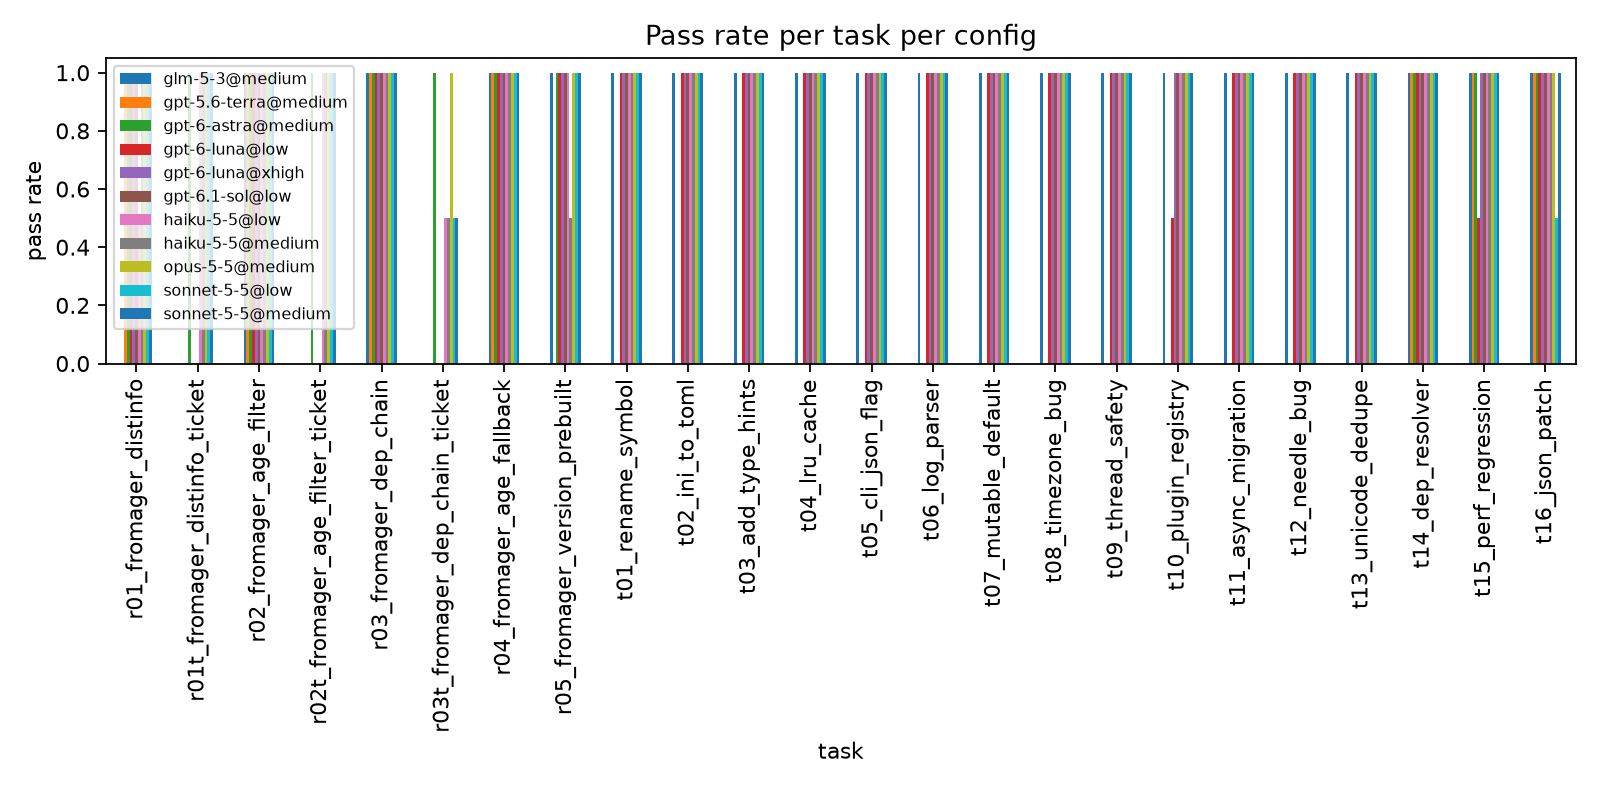
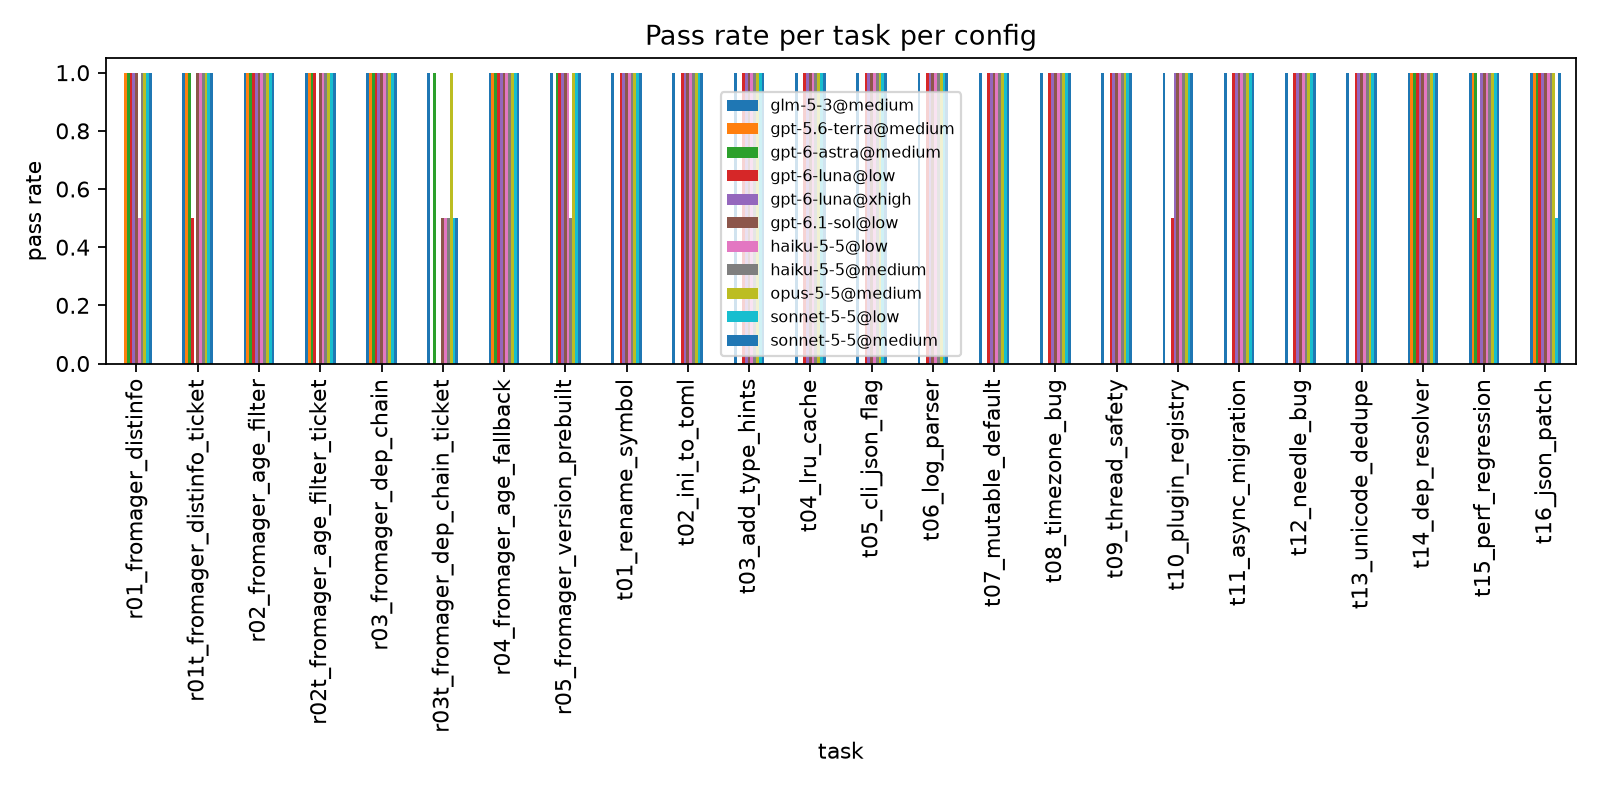
Results: Opus-judged Codex and GLM runs imported

Changed region(s): [[0.0625, 0.0625, 0.2188, 0.4688], [0.4375, 0.0938, 0.5938, 0.4688], [0.25, 0.2812, 0.2812, 0.4375]]

diff --git a/results/harness/report/summary.md b/results/harness/report/summary.md
@@ -82,13 +82,13 @@
 
 | config | pass rate | mean cost | mean wall s | n |
 |---|---|---|---|---|
-| glm-5-3@medium | 50% | $0.000 | 484 | 8 |
-| gpt-6-luna@low | 62% | $0.010 | 128 | 16 |
+| glm-5-3@medium | 88% | $0.000 | 484 | 8 |
+| gpt-6-luna@low | 81% | $0.010 | 128 | 16 |
 | gpt-6-luna@xhigh | 62% | $0.025 | 418 | 8 |
-| gpt-6.1-sol@low | 62% | $0.059 | 96 | 16 |
+| gpt-6.1-sol@low | 94% | $0.059 | 96 | 16 |
 | haiku-5-5@low | 88% | $0.097 | 86 | 16 |
 | haiku-5-5@medium | 88% | $0.143 | 117 | 16 |
-| gpt-5.6-terra@medium | 50% | $0.243 | 241 | 8 |
+| gpt-5.6-terra@medium | 75% | $0.243 | 241 | 8 |
 | sonnet-5-5@low | 94% | $0.416 | 54 | 16 |
 | sonnet-5-5@medium | 94% | $0.422 | 54 | 16 |
 | gpt-6-astra@medium | 100% | $0.615 | 123 | 8 |
@@ -99,11 +99,11 @@
 | task | tier | cheapest passing config | cost | most expensive passing | cost | saving |
 |---|---|---|---|---|---|---|
 | r01_fromager_distinfo | 6 | gpt-6-luna@low | $0.007 | opus-5-5@medium | $1.048 | 99% |
-| r01t_fromager_distinfo_ticket | 6 | haiku-5-5@low | $0.013 | opus-5-5@medium | $0.880 | 98% |
+| r01t_fromager_distinfo_ticket | 6 | glm-5-3@medium | $0.000 | opus-5-5@medium | $0.880 | 100% |
 | r02_fromager_age_filter | 6 | glm-5-3@medium | $0.000 | opus-5-5@medium | $0.526 | 100% |
-| r02t_fromager_age_filter_ticket | 6 | haiku-5-5@low | $0.030 | opus-5-5@medium | $0.769 | 96% |
+| r02t_fromager_age_filter_ticket | 6 | glm-5-3@medium | $0.000 | opus-5-5@medium | $0.769 | 100% |
 | r03_fromager_dep_chain | 6 | glm-5-3@medium | $0.000 | opus-5-5@medium | $1.031 | 100% |
-| r03t_fromager_dep_chain_ticket | 6 | gpt-6-astra@medium | $0.719 | opus-5-5@medium | $1.645 | 56% |
+| r03t_fromager_dep_chain_ticket | 6 | glm-5-3@medium | $0.000 | opus-5-5@medium | $1.645 | 100% |
 | r04_fromager_age_fallback | 6 | glm-5-3@medium | $0.000 | opus-5-5@medium | $1.504 | 100% |
 | r05_fromager_version_prebuilt | 6 | glm-5-3@medium | $0.000 | opus-5-5@medium | $2.050 | 100% |
 | t01_rename_symbol | 1 | glm-5-3@medium | $0.000 | opus-5-5@medium | $0.214 | 100% |
@@ -126,4 +126,4 @@
 ## Routing scenario
 
 Everything on `opus-5-5@medium`: $16.95 for 100% pass rate (24 runs).
-Routed per tier to the cheapest fully-passing config: $0.00 for 20 passing tasks.
+Routed per tier to the cheapest fully-passing config: $0.00 for 23 passing tasks.
